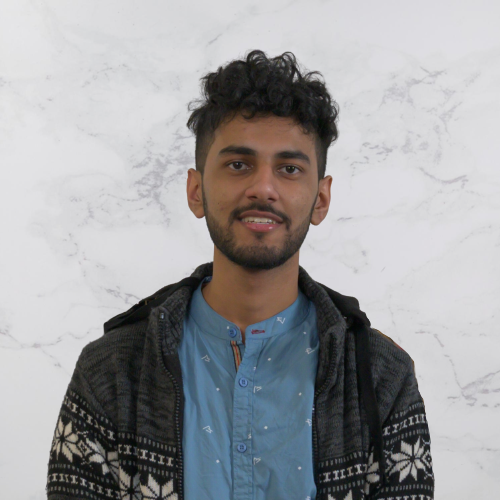
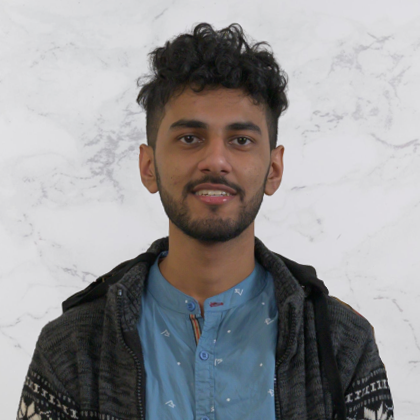
- update Malhar's photos - nicely crop exec team photos (daniel) - update faq section content

diff --git a/src/components/sections/Faq.js b/src/components/sections/Faq.js
@@ -1,82 +1,84 @@
-import React from 'react';
+import React from "react";
 
-import {Container, Section} from '../../data/global';
+import { Container, Section } from "../../data/global";
 
-import FaqItem from '@common/FaqItem';
-import ExternalLink from '@common/ExternalLink';
+import FaqItem from "@common/FaqItem";
+import ExternalLink from "@common/ExternalLink";
+import { socials } from "../../data/socials_data";
 
 const FAQS = [
-    {
-        title: 'What is AMACSS?',
-        content: () => (
-            <>
-                Enjoy the power of the latest web technologies – React.js , Webpack ,
-                modern JavaScript and CSS and more — all set up and waiting for you to
-                start building
-            </>
-        ),
-    },
-    {
-        title: 'How can I get involved with AMACSS?',
-        content: () => (
-            <>
-                Gatsby’s rich data plugin ecosystem lets you build sites with the data
-                you want — from one or many sources: Pull data from headless CMSs, SaaS
-                services, APIs, databases, your file system, and more directly into your
-                pages using GraphQL.
-            </>
-        ),
-    },
-    {
-        title: 'How do I find out about AMACSS events?',
-        content: () => (
-            <>
-                Gatsby.js is Internet Scale. Forget complicated deploys with databases
-                and servers and their expensive, time-consuming setup costs,
-                maintenance, and scaling fears. Gatsby.js builds your site as “static”
-                files which can be deployed easily on dozens of services.
-            </>
-        ),
-    },
-    {
-        title: 'Which courses do AMACSS hold review seminar?',
-        content: () => (
-            <>
-                Do not build a website with last decade’s tech. The future of the web is
-                mobile, JavaScript and APIs—the{` `}
-                <ExternalLink href="https://jamstack.org/">JAMstack</ExternalLink>.
-                Every website is a web app and every web app is a website. Gatsby.js is
-                the universal JavaScript framework you’ve been waiting for.
-            </>
-        ),
-    },
-    {
-        title: 'Where can I find previously recorded review seminars?',
-        content: () => (
-            <>
-                Gatsby.js is a static PWA (Progressive Web App) generator. You get code
-                and data splitting out-of-the-box. Gatsby loads only the critical HTML,
-                CSS, data, and JavaScript so your site loads as fast as possible. Once
-                loaded, Gatsby prefetches resources for other pages so clicking around
-                the site feels incredibly fast.
-            </>
-        ),
-    },
+  {
+    title: "What is AMACSS?",
+    content: () => (
+      <>
+        AMACSS stands for the Association of Mathematical and Computer Science
+        Students. At AMACSS, we strive to enhance the experience of every CMS
+        student through our academic and non-academic events. By attending our
+        seminars and events, you are contributing to the AMACSS community! Check
+        our <a href="/about">about</a> page to learn more about AMACSS, and join
+        our social media community to stay informed on opportunities to
+        participate in our events.
+      </>
+    ),
+  },
+  {
+    title: "How can I get involved with AMACSS?",
+    content: () => (
+      <>
+        Hiring for every AMACSS team (executive, academics, marketing, events,
+        technology, finance, and first-year) is conducted at the beginning of
+        each academic year. Join our <a href={`${socials.discord}`}>Discord</a>{" "}
+        community for access to application forms, and important deadlines.
+      </>
+    ),
+  },
+  {
+    title: "How do I find out about AMACSS events?",
+    content: () => (
+      <>
+        Join our social media community for timely updates on our events! We
+        have Facebook, Instagram, and Discord communities, links to all of which
+        can be found on the navigation menu above.
+      </>
+    ),
+  },
+  {
+    title: "Which courses do AMACSS hold review seminar?",
+    content: () => (
+      <>
+        Check our <a href="/resources">resources</a> page for a subset of
+        previously held review seminars! Currently our Academics Team is
+        expanding our coverage of CMS courses. For inquiries regarding a
+        specific course, feel free to inquire on the AMACSS Discord Server!
+      </>
+    ),
+  },
+  {
+    title: "Where can I find previously recorded review seminars?",
+    content: () => (
+      <>
+        To find previously recorded review seminars, navigate to our{" "}
+        <a href="/resources">resources</a> page! Alternatively, visit the{" "}
+        <a href={`${socials.youtube}`}>AMACSS Youtube channel</a> and navigate
+        our playlist.
+      </>
+    ),
+  },
 ];
 
 const Faq = () => (
-    <Section id="faq">
-        <Container>
-            <h1 style={{marginBottom: 40}}>Frequently Asked Questions</h1>
-            <div>
-                {FAQS.map(({title, content}) => (
-                    <FaqItem title={title} key={title}>
-                        {content()}
-                    </FaqItem>
-                ))}
-            </div>
-        </Container>
-    </Section>
+  <Section id="faq">
+    <Container>
+      <h1 style={{ marginBottom: 40 }}>Frequently Asked Questions</h1>
+      <div>
+        {FAQS.map(({ title, content }) => (
+          <FaqItem title={title} key={title}>
+            {content()}
+          </FaqItem>
+        ))}
+      </div>
+    </Container>
+  </Section>
 );
 
 export default Faq;

diff --git a/src/data/teams_data.js b/src/data/teams_data.js
@@ -1,13 +1,13 @@
 const EXECUTIVE_TEAM = [
   {
     name: "Sauhaard Walia",
-    image: "Sauhaard_Walia.jpg",
+    image: "Sauhaard_Walia.png",
     role: "Co-President",
     linkedin: "https://www.linkedin.com/in/sauhaard",
   },
   {
     name: "Katrina Best",
-    image: "Katrina_Best.jpg",
+    image: "Katrina_Best.png",
     role: "Co-President",
     linkedin: "https://www.linkedin.com/in/katrina-best/",
   },
@@ -19,37 +19,37 @@ const EXECUTIVE_TEAM = [
   },
   {
     name: "Aarushi Doshi",
-    image: "Aarushi_Doshi.jpg",
+    image: "Aarushi_Doshi.png",
     role: "VP of Events",
     linkedin: "https://www.linkedin.com/in/aarushi-doshi-5901141a7/",
   },
   {
     name: "Malhar Pandya",
-    image: "Malhar_Pandya.jpg",
+    image: "Malhar_Pandya.png",
     role: "VP of Academics",
     linkedin: "https://www.linkedin.com/in/malhar-pandya/",
   },
   {
     name: "Jinie Choi",
-    image: "Jinie_Choi.jpg",
+    image: "Jinie_Choi.png",
     role: "VP of External Affairs",
     linkedin: "https://www.linkedin.com/in/emily-choi-a1bba9243/",
   },
   {
     name: "Yihoi Jung",
-    image: "Yihoi_Jung.jpg",
+    image: "Yihoi_Jung.png",
     role: "VP of Marketing",
     linkedin: "https://www.linkedin.com/in/yihoi-jung-0b95351b5/",
   },
   {
     name: "Murphy Lee",
-    image: "Murphy_Lee.jpg",
+    image: "Murphy_Lee.png",
     role: "VP of Technology",
     linkedin: "https://www.linkedin.com/in/murphylee10/",
   },
   {
     name: "Elesie Tsui",
-    image: "Elesie_Tsui.jpeg",
+    image: "Elesie_Tsui.png",
     role: "VP of Finance",
     linkedin: "https://ca.linkedin.com/in/elesie-tsui",
   },

diff --git a/src/data/socials_data.js b/src/data/socials_data.js
@@ -7,6 +7,7 @@ export const socials = {
   email: "amacss.uoft@gmail.com",
   instagram: "amacss_utsc",
   discord: "https://discord.gg/9nB958kxTJ",
+  youtube: "https://www.youtube.com/@amacssutsc/",
 };
 
 export const SOCIAL_NAV = [
